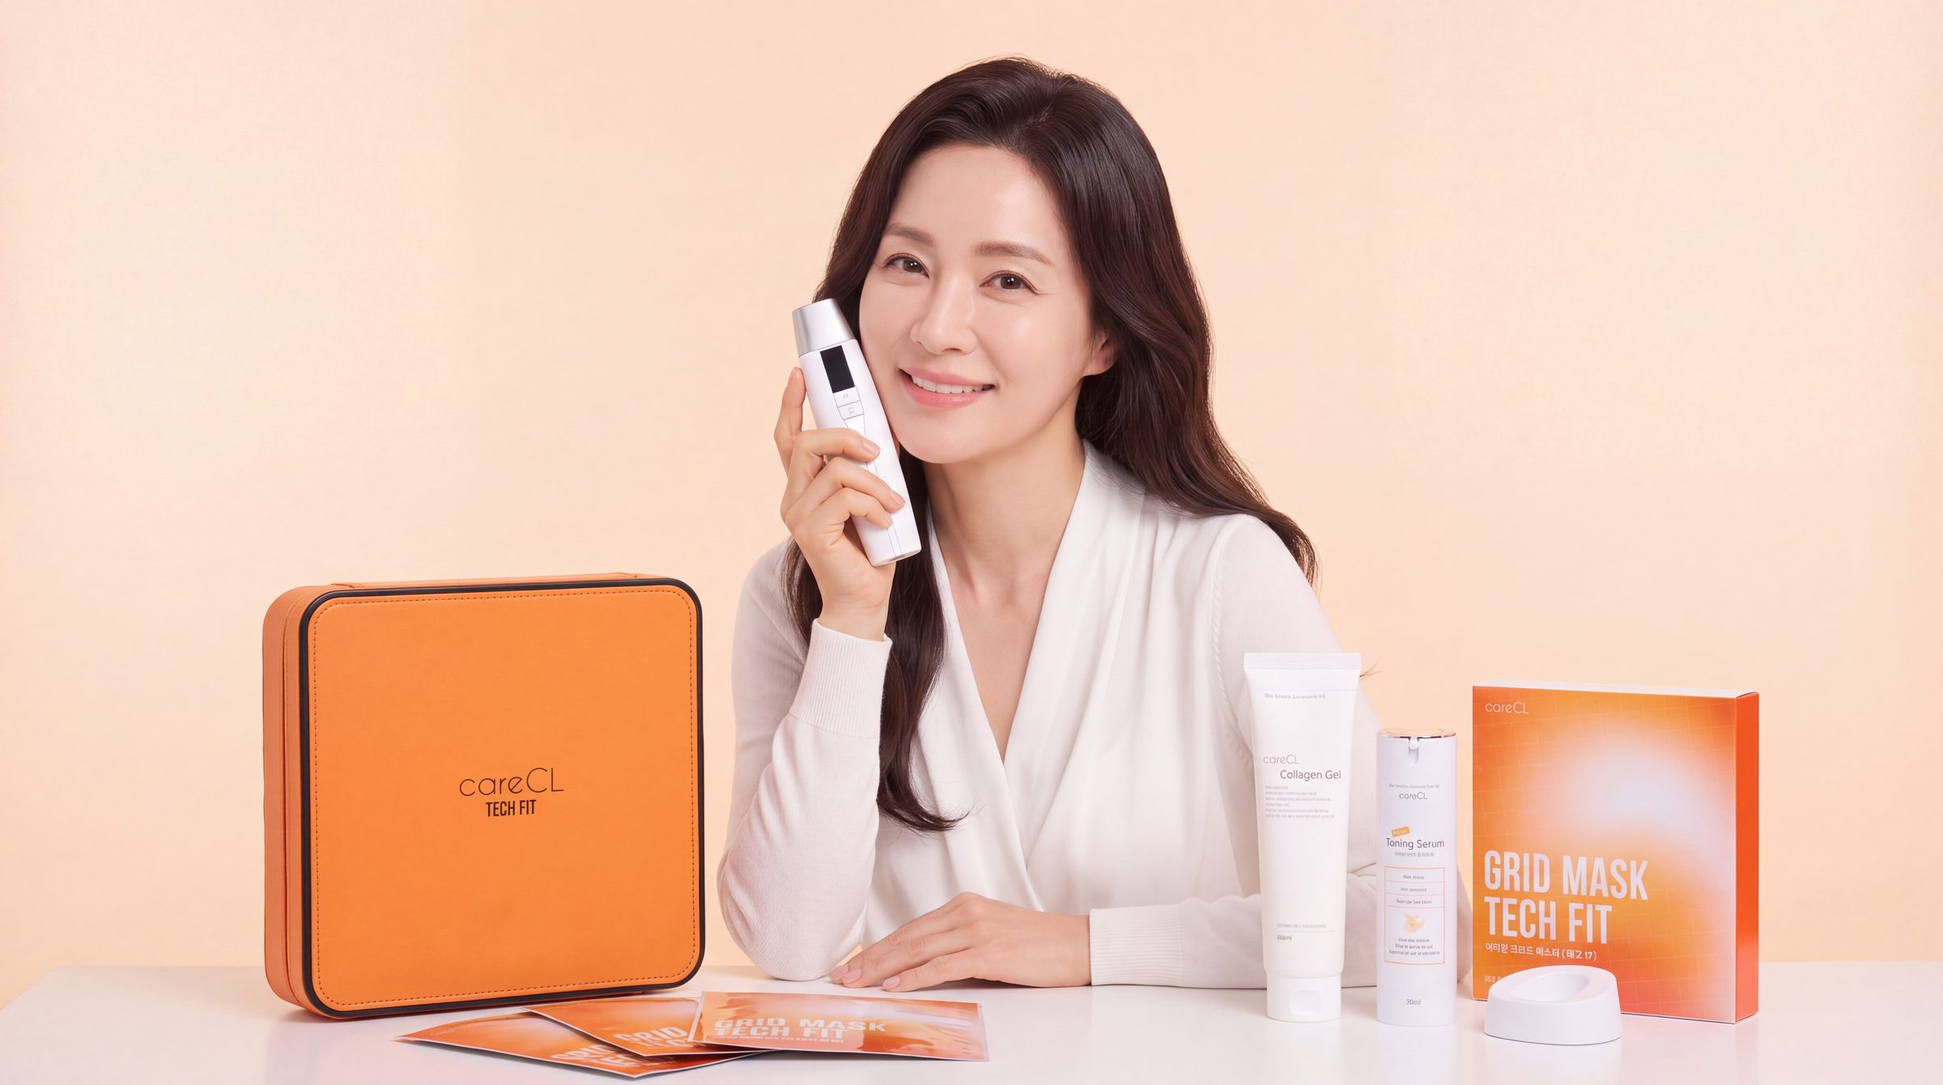
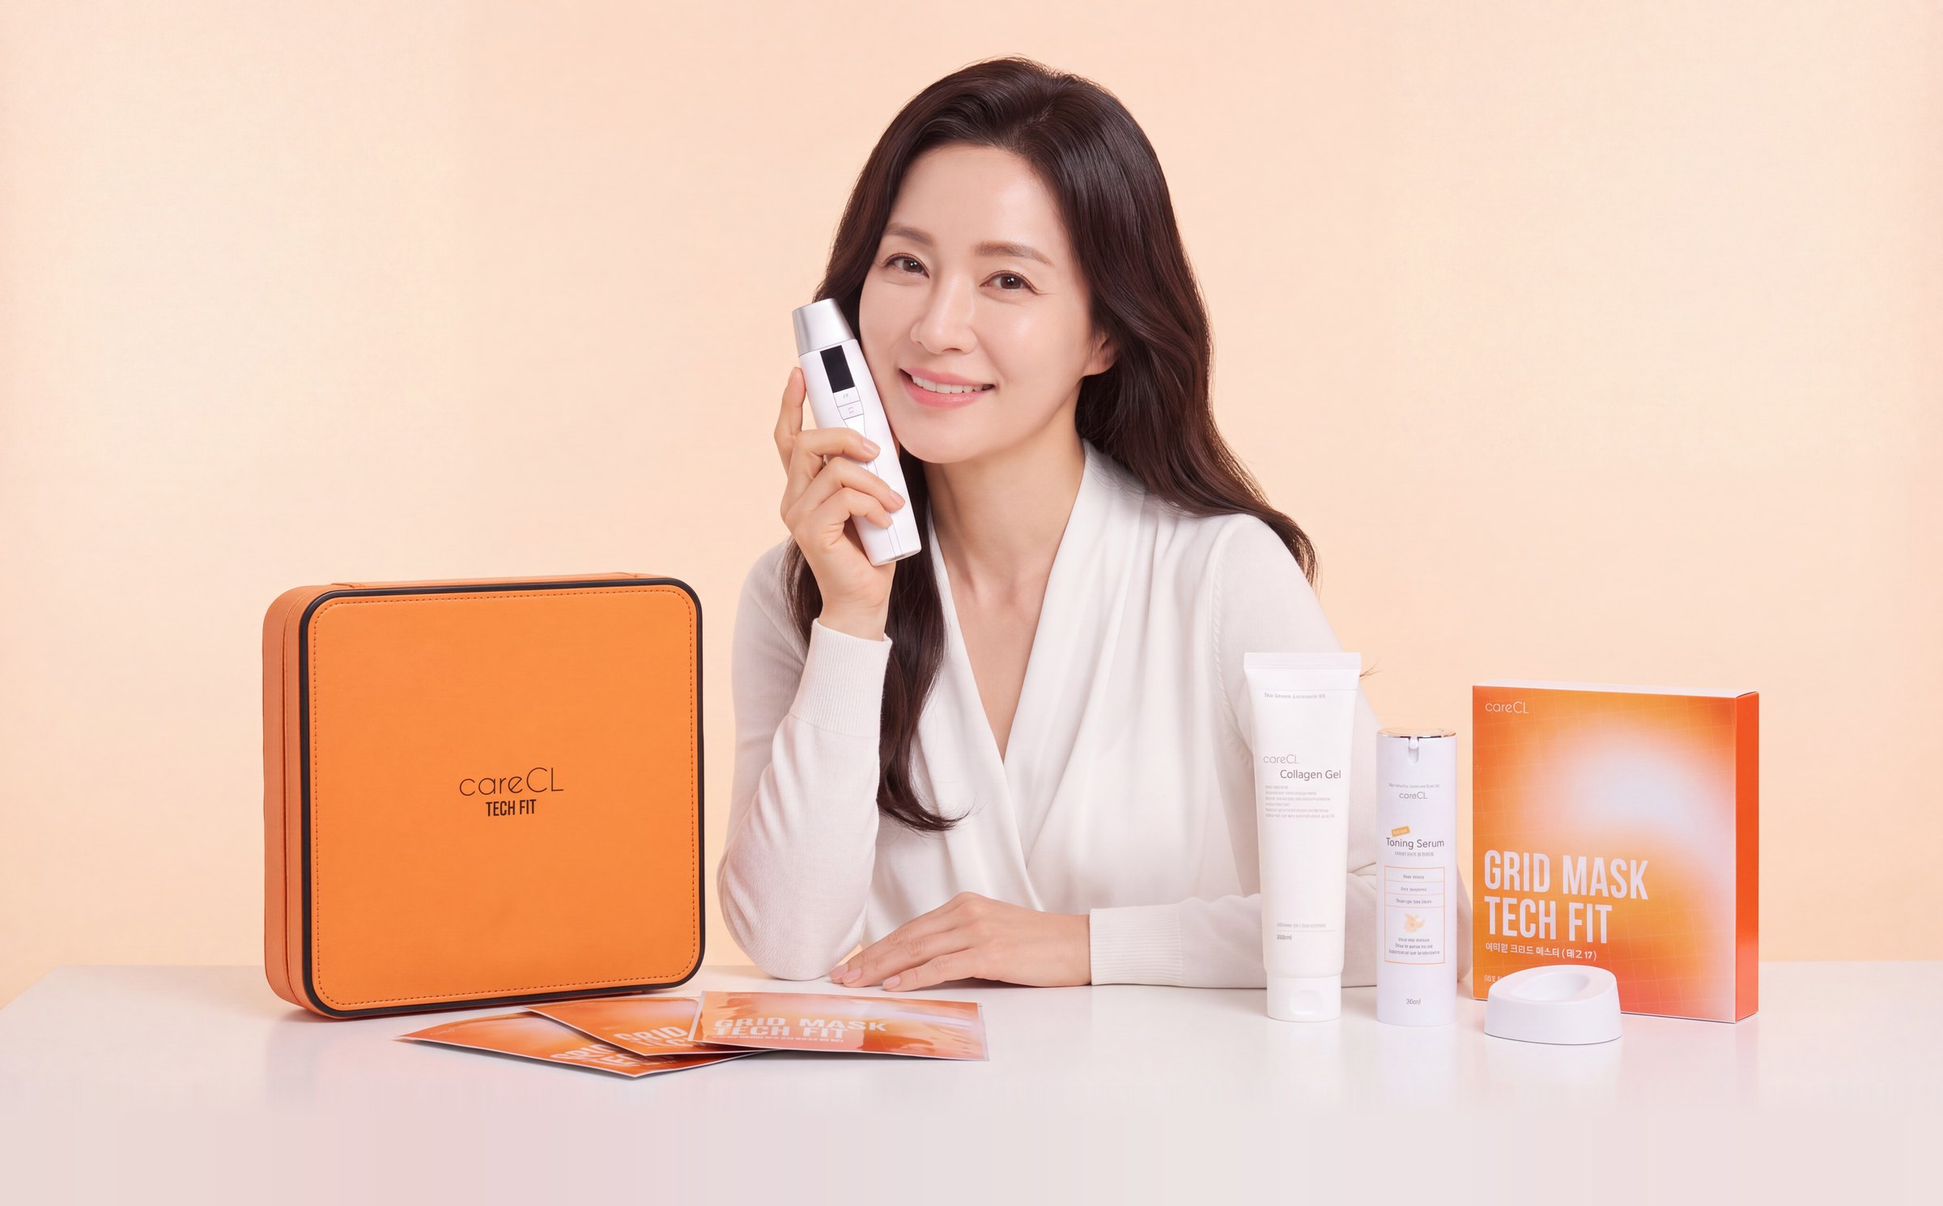
공식몰 사진 하단 확장·전체 노출, AI 피부 진단 플로팅 버튼 복원

diff --git a/index.html b/index.html
@@ -9,7 +9,7 @@
 <link rel="preload" href="fonts/metropolis-latin-500-normal.woff2" as="font" type="font/woff2" crossorigin>
 <link rel="preload" href="fonts/urbanist-latin-400-normal.woff2" as="font" type="font/woff2" crossorigin>
 <link rel="stylesheet" href="https://cdn.jsdelivr.net/gh/orioncactus/pretendard@v1.3.9/dist/web/static/pretendard.min.css">
-<link rel="stylesheet" href="css/stem.css?v=261016040611">
+<link rel="stylesheet" href="css/stem.css?v=261016040916">
 <script type="importmap">{"imports":{"three":"./libs/three/three.module.min.js"}}</script>
 </head>
 <body>
@@ -43,8 +43,8 @@
 
   <!-- 01 상단 배너 -->
   <section class="hero" aria-label="메인 영상">
-    <img class="hero__poster" src="assets/img/main-film-poster.jpg?v=261016040611" alt="">
-    <video class="hero__video" src="assets/video/main-film.mp4?v=261016040611" poster="assets/img/main-film-poster.jpg?v=261016040611"
+    <img class="hero__poster" src="assets/img/main-film-poster.jpg?v=261016040916" alt="">
+    <video class="hero__video" src="assets/video/main-film.mp4?v=261016040916" poster="assets/img/main-film-poster.jpg?v=261016040916"
            autoplay muted loop playsinline preload="metadata" aria-hidden="true"></video>
     <div class="hero__copy">
       <p class="hero__eyebrow">Anti-Aging Skincare</p>
@@ -335,8 +335,9 @@
     <span>© 2026 CARECL. All rights reserved.</span>
   </div>
 </footer>
-<script src="js/led.js?v=261016040611"></script>
-<script src="js/stem.js?v=261016040611"></script>
-<script type="module" src="js/device3d.js?v=261016040611"></script>
+<a class="aifab" href="survey.html" aria-label="AI 피부 진단 시작하기"><span class="aifab__ico"><svg viewBox="0 0 24 24" fill="none" aria-hidden="true"><path d="M12 2.2 14 8.4 20.2 10.4 14 12.4 12 18.6 10 12.4 3.8 10.4 10 8.4Z" fill="currentColor"/><circle cx="19.4" cy="4.2" r="1.7" fill="currentColor" opacity=".9"/><circle cx="4.8" cy="18.4" r="1.2" fill="currentColor" opacity=".7"/></svg></span><span class="aifab__txt">AI 피부 진단</span></a>
+<script src="js/led.js?v=261016040916"></script>
+<script src="js/stem.js?v=261016040916"></script>
+<script type="module" src="js/device3d.js?v=261016040916"></script>
 </body>
 </html>

diff --git a/css/stem.css b/css/stem.css
@@ -418,7 +418,7 @@ body.menu-open .mnav{opacity:1;visibility:visible;transform:none;transition-dela
   /* 좁은 화면 — 글을 위에, 사진은 아래에 통째로 */
   .shop{height:auto!important;flex-direction:column}
   .shop__inner{padding-block:40px 28px}
-  .shop__bg{position:relative;inset:auto;width:100%;aspect-ratio:16/9}
+  .shop__bg{position:relative;inset:auto;width:100%;aspect-ratio:2400/1490}
   .shop__bg img{transform:none!important;object-position:50% 50%}
   .foot__top{grid-template-columns:1fr}
 }
@@ -431,3 +431,26 @@ body.menu-open .mnav{opacity:1;visibility:visible;transform:none;transition-dela
   .js .rv{opacity:1;transform:none}
   .marq__track{animation:none}
 }
+
+/* ── AI 피부 진단 플로팅 버튼 (예전 사이트와 같은 모양) ── */
+.aifab{
+  position:fixed;right:clamp(18px,2.4vw,38px);bottom:clamp(18px,2.4vw,38px);z-index:95;
+  display:inline-flex;align-items:center;gap:10px;
+  padding:14px 22px 14px 14px;border-radius:100px;
+  background:#C46A3A;color:#fff;text-decoration:none;
+  box-shadow:0 8px 18px -8px rgba(196,106,58,.55);
+  transition:transform .35s cubic-bezier(.2,.7,.2,1), box-shadow .35s ease, background .3s ease;
+  animation:aifabFloat 4.5s ease-in-out infinite;
+}
+.aifab:hover{transform:translateY(-3px);background:#A8521F;box-shadow:0 12px 22px -10px rgba(168,82,31,.6)}
+.aifab__ico{display:inline-flex;align-items:center;justify-content:center;width:34px;height:34px;border-radius:50%;background:rgba(255,255,255,.26);color:#fff}
+.aifab__ico svg{width:18px;height:18px;animation:aiSpin 7s linear infinite}
+.aifab__txt{font-size:15px;font-weight:600;letter-spacing:-.01em;white-space:nowrap}
+@keyframes aifabFloat{0%,100%{transform:translateY(0)}50%{transform:translateY(-5px)}}
+@keyframes aiSpin{to{transform:rotate(360deg)}}
+@media (max-width:620px){
+  .aifab{padding:12px 18px 12px 12px}
+  .aifab__ico{width:30px;height:30px}
+  .aifab__txt{font-size:14px}
+}
+@media (prefers-reduced-motion:reduce){.aifab,.aifab__ico svg{animation:none}}

diff --git a/survey.html b/survey.html
@@ -9,10 +9,10 @@
 <link rel="preload" href="fonts/metropolis-latin-500-normal.woff2" as="font" type="font/woff2" crossorigin>
 <link rel="preload" href="fonts/urbanist-latin-400-normal.woff2" as="font" type="font/woff2" crossorigin>
 <link rel="stylesheet" href="https://cdn.jsdelivr.net/gh/orioncactus/pretendard@v1.3.9/dist/web/static/pretendard.min.css">
-<link rel="stylesheet" href="css/stem.css?v=261016040611">
-<link rel="stylesheet" href="css/bridge.css?v=261016040611">
-<link rel="stylesheet" href="css/survey.css?v=261016040611">
-<link rel="stylesheet" href="css/report.css?v=261016040611">
+<link rel="stylesheet" href="css/stem.css?v=261016040916">
+<link rel="stylesheet" href="css/bridge.css?v=261016040916">
+<link rel="stylesheet" href="css/survey.css?v=261016040916">
+<link rel="stylesheet" href="css/report.css?v=261016040916">
 <script type="importmap">{"imports":{"three":"./libs/three/three.module.min.js"}}</script>
 </head>
 <body class="survey">
@@ -72,9 +72,10 @@
     <span>© 2026 CARECL. All rights reserved.</span>
   </div>
 </footer>
-<script src="js/led.js?v=261016040611"></script>
-<script src="js/stem.js?v=261016040611"></script>
-<script src="js/report.js?v=261016040611"></script>
-<script src="js/survey.js?v=261016040611"></script>
+<a class="aifab" href="survey.html" aria-label="AI 피부 진단 시작하기"><span class="aifab__ico"><svg viewBox="0 0 24 24" fill="none" aria-hidden="true"><path d="M12 2.2 14 8.4 20.2 10.4 14 12.4 12 18.6 10 12.4 3.8 10.4 10 8.4Z" fill="currentColor"/><circle cx="19.4" cy="4.2" r="1.7" fill="currentColor" opacity=".9"/><circle cx="4.8" cy="18.4" r="1.2" fill="currentColor" opacity=".7"/></svg></span><span class="aifab__txt">AI 피부 진단</span></a>
+<script src="js/led.js?v=261016040916"></script>
+<script src="js/stem.js?v=261016040916"></script>
+<script src="js/report.js?v=261016040916"></script>
+<script src="js/survey.js?v=261016040916"></script>
 </body>
 </html>

diff --git a/report.html b/report.html
@@ -9,10 +9,10 @@
 <link rel="preload" href="fonts/metropolis-latin-500-normal.woff2" as="font" type="font/woff2" crossorigin>
 <link rel="preload" href="fonts/urbanist-latin-400-normal.woff2" as="font" type="font/woff2" crossorigin>
 <link rel="stylesheet" href="https://cdn.jsdelivr.net/gh/orioncactus/pretendard@v1.3.9/dist/web/static/pretendard.min.css">
-<link rel="stylesheet" href="css/stem.css?v=261016040611">
-<link rel="stylesheet" href="css/sub.css?v=261016040611">
-<link rel="stylesheet" href="css/bridge.css?v=261016040611">
-<link rel="stylesheet" href="css/report.css?v=261016040611">
+<link rel="stylesheet" href="css/stem.css?v=261016040916">
+<link rel="stylesheet" href="css/sub.css?v=261016040916">
+<link rel="stylesheet" href="css/bridge.css?v=261016040916">
+<link rel="stylesheet" href="css/report.css?v=261016040916">
 <script type="importmap">{"imports":{"three":"./libs/three/three.module.min.js"}}</script>
 </head>
 <body>
@@ -70,9 +70,10 @@
     <span>© 2026 CARECL. All rights reserved.</span>
   </div>
 </footer>
-<script src="js/led.js?v=261016040611"></script>
-<script src="js/stem.js?v=261016040611"></script>
-<script src="js/report.js?v=261016040611"></script>
-<script src="js/reportpage.js?v=261016040611"></script>
+<a class="aifab" href="survey.html" aria-label="AI 피부 진단 시작하기"><span class="aifab__ico"><svg viewBox="0 0 24 24" fill="none" aria-hidden="true"><path d="M12 2.2 14 8.4 20.2 10.4 14 12.4 12 18.6 10 12.4 3.8 10.4 10 8.4Z" fill="currentColor"/><circle cx="19.4" cy="4.2" r="1.7" fill="currentColor" opacity=".9"/><circle cx="4.8" cy="18.4" r="1.2" fill="currentColor" opacity=".7"/></svg></span><span class="aifab__txt">AI 피부 진단</span></a>
+<script src="js/led.js?v=261016040916"></script>
+<script src="js/stem.js?v=261016040916"></script>
+<script src="js/report.js?v=261016040916"></script>
+<script src="js/reportpage.js?v=261016040916"></script>
 </body>
 </html>

diff --git a/aging-map.html b/aging-map.html
@@ -9,8 +9,8 @@
 <link rel="preload" href="fonts/metropolis-latin-500-normal.woff2" as="font" type="font/woff2" crossorigin>
 <link rel="preload" href="fonts/urbanist-latin-400-normal.woff2" as="font" type="font/woff2" crossorigin>
 <link rel="stylesheet" href="https://cdn.jsdelivr.net/gh/orioncactus/pretendard@v1.3.9/dist/web/static/pretendard.min.css">
-<link rel="stylesheet" href="css/stem.css?v=261016040611">
-<link rel="stylesheet" href="css/sub.css?v=261016040611">
+<link rel="stylesheet" href="css/stem.css?v=261016040916">
+<link rel="stylesheet" href="css/sub.css?v=261016040916">
 <script type="importmap">{"imports":{"three":"./libs/three/three.module.min.js"}}</script>
 </head>
 <body>
@@ -100,7 +100,8 @@
     <span>© 2026 CARECL. All rights reserved.</span>
   </div>
 </footer>
-<script src="js/led.js?v=261016040611"></script>
-<script src="js/stem.js?v=261016040611"></script>
+<a class="aifab" href="survey.html" aria-label="AI 피부 진단 시작하기"><span class="aifab__ico"><svg viewBox="0 0 24 24" fill="none" aria-hidden="true"><path d="M12 2.2 14 8.4 20.2 10.4 14 12.4 12 18.6 10 12.4 3.8 10.4 10 8.4Z" fill="currentColor"/><circle cx="19.4" cy="4.2" r="1.7" fill="currentColor" opacity=".9"/><circle cx="4.8" cy="18.4" r="1.2" fill="currentColor" opacity=".7"/></svg></span><span class="aifab__txt">AI 피부 진단</span></a>
+<script src="js/led.js?v=261016040916"></script>
+<script src="js/stem.js?v=261016040916"></script>
 </body>
 </html>

diff --git a/aging-types.html b/aging-types.html
@@ -9,8 +9,8 @@
 <link rel="preload" href="fonts/metropolis-latin-500-normal.woff2" as="font" type="font/woff2" crossorigin>
 <link rel="preload" href="fonts/urbanist-latin-400-normal.woff2" as="font" type="font/woff2" crossorigin>
 <link rel="stylesheet" href="https://cdn.jsdelivr.net/gh/orioncactus/pretendard@v1.3.9/dist/web/static/pretendard.min.css">
-<link rel="stylesheet" href="css/stem.css?v=261016040611">
-<link rel="stylesheet" href="css/sub.css?v=261016040611">
+<link rel="stylesheet" href="css/stem.css?v=261016040916">
+<link rel="stylesheet" href="css/sub.css?v=261016040916">
 <script type="importmap">{"imports":{"three":"./libs/three/three.module.min.js"}}</script>
 </head>
 <body>
@@ -120,7 +120,8 @@
     <span>© 2026 CARECL. All rights reserved.</span>
   </div>
 </footer>
-<script src="js/led.js?v=261016040611"></script>
-<script src="js/stem.js?v=261016040611"></script>
+<a class="aifab" href="survey.html" aria-label="AI 피부 진단 시작하기"><span class="aifab__ico"><svg viewBox="0 0 24 24" fill="none" aria-hidden="true"><path d="M12 2.2 14 8.4 20.2 10.4 14 12.4 12 18.6 10 12.4 3.8 10.4 10 8.4Z" fill="currentColor"/><circle cx="19.4" cy="4.2" r="1.7" fill="currentColor" opacity=".9"/><circle cx="4.8" cy="18.4" r="1.2" fill="currentColor" opacity=".7"/></svg></span><span class="aifab__txt">AI 피부 진단</span></a>
+<script src="js/led.js?v=261016040916"></script>
+<script src="js/stem.js?v=261016040916"></script>
 </body>
 </html>

diff --git a/carecl-technology.html b/carecl-technology.html
@@ -9,8 +9,8 @@
 <link rel="preload" href="fonts/metropolis-latin-500-normal.woff2" as="font" type="font/woff2" crossorigin>
 <link rel="preload" href="fonts/urbanist-latin-400-normal.woff2" as="font" type="font/woff2" crossorigin>
 <link rel="stylesheet" href="https://cdn.jsdelivr.net/gh/orioncactus/pretendard@v1.3.9/dist/web/static/pretendard.min.css">
-<link rel="stylesheet" href="css/stem.css?v=261016040611">
-<link rel="stylesheet" href="css/sub.css?v=261016040611">
+<link rel="stylesheet" href="css/stem.css?v=261016040916">
+<link rel="stylesheet" href="css/sub.css?v=261016040916">
 <script type="importmap">{"imports":{"three":"./libs/three/three.module.min.js"}}</script>
 </head>
 <body>
@@ -145,7 +145,8 @@
     <span>© 2026 CARECL. All rights reserved.</span>
   </div>
 </footer>
-<script src="js/led.js?v=261016040611"></script>
-<script src="js/stem.js?v=261016040611"></script>
+<a class="aifab" href="survey.html" aria-label="AI 피부 진단 시작하기"><span class="aifab__ico"><svg viewBox="0 0 24 24" fill="none" aria-hidden="true"><path d="M12 2.2 14 8.4 20.2 10.4 14 12.4 12 18.6 10 12.4 3.8 10.4 10 8.4Z" fill="currentColor"/><circle cx="19.4" cy="4.2" r="1.7" fill="currentColor" opacity=".9"/><circle cx="4.8" cy="18.4" r="1.2" fill="currentColor" opacity=".7"/></svg></span><span class="aifab__txt">AI 피부 진단</span></a>
+<script src="js/led.js?v=261016040916"></script>
+<script src="js/stem.js?v=261016040916"></script>
 </body>
 </html>

diff --git a/greeting.html b/greeting.html
@@ -9,8 +9,8 @@
 <link rel="preload" href="fonts/metropolis-latin-500-normal.woff2" as="font" type="font/woff2" crossorigin>
 <link rel="preload" href="fonts/urbanist-latin-400-normal.woff2" as="font" type="font/woff2" crossorigin>
 <link rel="stylesheet" href="https://cdn.jsdelivr.net/gh/orioncactus/pretendard@v1.3.9/dist/web/static/pretendard.min.css">
-<link rel="stylesheet" href="css/stem.css?v=261016040611">
-<link rel="stylesheet" href="css/sub.css?v=261016040611">
+<link rel="stylesheet" href="css/stem.css?v=261016040916">
+<link rel="stylesheet" href="css/sub.css?v=261016040916">
 <script type="importmap">{"imports":{"three":"./libs/three/three.module.min.js"}}</script>
 </head>
 <body>
@@ -112,7 +112,8 @@
     <span>© 2026 CARECL. All rights reserved.</span>
   </div>
 </footer>
-<script src="js/led.js?v=261016040611"></script>
-<script src="js/stem.js?v=261016040611"></script>
+<a class="aifab" href="survey.html" aria-label="AI 피부 진단 시작하기"><span class="aifab__ico"><svg viewBox="0 0 24 24" fill="none" aria-hidden="true"><path d="M12 2.2 14 8.4 20.2 10.4 14 12.4 12 18.6 10 12.4 3.8 10.4 10 8.4Z" fill="currentColor"/><circle cx="19.4" cy="4.2" r="1.7" fill="currentColor" opacity=".9"/><circle cx="4.8" cy="18.4" r="1.2" fill="currentColor" opacity=".7"/></svg></span><span class="aifab__txt">AI 피부 진단</span></a>
+<script src="js/led.js?v=261016040916"></script>
+<script src="js/stem.js?v=261016040916"></script>
 </body>
 </html>

diff --git a/about.html b/about.html
@@ -9,8 +9,8 @@
 <link rel="preload" href="fonts/metropolis-latin-500-normal.woff2" as="font" type="font/woff2" crossorigin>
 <link rel="preload" href="fonts/urbanist-latin-400-normal.woff2" as="font" type="font/woff2" crossorigin>
 <link rel="stylesheet" href="https://cdn.jsdelivr.net/gh/orioncactus/pretendard@v1.3.9/dist/web/static/pretendard.min.css">
-<link rel="stylesheet" href="css/stem.css?v=261016040611">
-<link rel="stylesheet" href="css/sub.css?v=261016040611">
+<link rel="stylesheet" href="css/stem.css?v=261016040916">
+<link rel="stylesheet" href="css/sub.css?v=261016040916">
 <script type="importmap">{"imports":{"three":"./libs/three/three.module.min.js"}}</script>
 </head>
 <body>
@@ -92,7 +92,8 @@
     <span>© 2026 CARECL. All rights reserved.</span>
   </div>
 </footer>
-<script src="js/led.js?v=261016040611"></script>
-<script src="js/stem.js?v=261016040611"></script>
+<a class="aifab" href="survey.html" aria-label="AI 피부 진단 시작하기"><span class="aifab__ico"><svg viewBox="0 0 24 24" fill="none" aria-hidden="true"><path d="M12 2.2 14 8.4 20.2 10.4 14 12.4 12 18.6 10 12.4 3.8 10.4 10 8.4Z" fill="currentColor"/><circle cx="19.4" cy="4.2" r="1.7" fill="currentColor" opacity=".9"/><circle cx="4.8" cy="18.4" r="1.2" fill="currentColor" opacity=".7"/></svg></span><span class="aifab__txt">AI 피부 진단</span></a>
+<script src="js/led.js?v=261016040916"></script>
+<script src="js/stem.js?v=261016040916"></script>
 </body>
 </html>

diff --git a/certification.html b/certification.html
@@ -9,8 +9,8 @@
 <link rel="preload" href="fonts/metropolis-latin-500-normal.woff2" as="font" type="font/woff2" crossorigin>
 <link rel="preload" href="fonts/urbanist-latin-400-normal.woff2" as="font" type="font/woff2" crossorigin>
 <link rel="stylesheet" href="https://cdn.jsdelivr.net/gh/orioncactus/pretendard@v1.3.9/dist/web/static/pretendard.min.css">
-<link rel="stylesheet" href="css/stem.css?v=261016040611">
-<link rel="stylesheet" href="css/sub.css?v=261016040611">
+<link rel="stylesheet" href="css/stem.css?v=261016040916">
+<link rel="stylesheet" href="css/sub.css?v=261016040916">
 <script type="importmap">{"imports":{"three":"./libs/three/three.module.min.js"}}</script>
 </head>
 <body>
@@ -79,7 +79,8 @@
     <span>© 2026 CARECL. All rights reserved.</span>
   </div>
 </footer>
-<script src="js/led.js?v=261016040611"></script>
-<script src="js/stem.js?v=261016040611"></script>
+<a class="aifab" href="survey.html" aria-label="AI 피부 진단 시작하기"><span class="aifab__ico"><svg viewBox="0 0 24 24" fill="none" aria-hidden="true"><path d="M12 2.2 14 8.4 20.2 10.4 14 12.4 12 18.6 10 12.4 3.8 10.4 10 8.4Z" fill="currentColor"/><circle cx="19.4" cy="4.2" r="1.7" fill="currentColor" opacity=".9"/><circle cx="4.8" cy="18.4" r="1.2" fill="currentColor" opacity=".7"/></svg></span><span class="aifab__txt">AI 피부 진단</span></a>
+<script src="js/led.js?v=261016040916"></script>
+<script src="js/stem.js?v=261016040916"></script>
 </body>
 </html>

diff --git a/contact.html b/contact.html
@@ -9,8 +9,8 @@
 <link rel="preload" href="fonts/metropolis-latin-500-normal.woff2" as="font" type="font/woff2" crossorigin>
 <link rel="preload" href="fonts/urbanist-latin-400-normal.woff2" as="font" type="font/woff2" crossorigin>
 <link rel="stylesheet" href="https://cdn.jsdelivr.net/gh/orioncactus/pretendard@v1.3.9/dist/web/static/pretendard.min.css">
-<link rel="stylesheet" href="css/stem.css?v=261016040611">
-<link rel="stylesheet" href="css/sub.css?v=261016040611">
+<link rel="stylesheet" href="css/stem.css?v=261016040916">
+<link rel="stylesheet" href="css/sub.css?v=261016040916">
 <script type="importmap">{"imports":{"three":"./libs/three/three.module.min.js"}}</script>
 </head>
 <body>
@@ -92,7 +92,8 @@
     <span>© 2026 CARECL. All rights reserved.</span>
   </div>
 </footer>
-<script src="js/led.js?v=261016040611"></script>
-<script src="js/stem.js?v=261016040611"></script>
+<a class="aifab" href="survey.html" aria-label="AI 피부 진단 시작하기"><span class="aifab__ico"><svg viewBox="0 0 24 24" fill="none" aria-hidden="true"><path d="M12 2.2 14 8.4 20.2 10.4 14 12.4 12 18.6 10 12.4 3.8 10.4 10 8.4Z" fill="currentColor"/><circle cx="19.4" cy="4.2" r="1.7" fill="currentColor" opacity=".9"/><circle cx="4.8" cy="18.4" r="1.2" fill="currentColor" opacity=".7"/></svg></span><span class="aifab__txt">AI 피부 진단</span></a>
+<script src="js/led.js?v=261016040916"></script>
+<script src="js/stem.js?v=261016040916"></script>
 </body>
 </html>

diff --git a/cosmetics.html b/cosmetics.html
@@ -9,8 +9,8 @@
 <link rel="preload" href="fonts/metropolis-latin-500-normal.woff2" as="font" type="font/woff2" crossorigin>
 <link rel="preload" href="fonts/urbanist-latin-400-normal.woff2" as="font" type="font/woff2" crossorigin>
 <link rel="stylesheet" href="https://cdn.jsdelivr.net/gh/orioncactus/pretendard@v1.3.9/dist/web/static/pretendard.min.css">
-<link rel="stylesheet" href="css/stem.css?v=261016040611">
-<link rel="stylesheet" href="css/sub.css?v=261016040611">
+<link rel="stylesheet" href="css/stem.css?v=261016040916">
+<link rel="stylesheet" href="css/sub.css?v=261016040916">
 <script type="importmap">{"imports":{"three":"./libs/three/three.module.min.js"}}</script>
 </head>
 <body>
@@ -92,7 +92,8 @@
     <span>© 2026 CARECL. All rights reserved.</span>
   </div>
 </footer>
-<script src="js/led.js?v=261016040611"></script>
-<script src="js/stem.js?v=261016040611"></script>
+<a class="aifab" href="survey.html" aria-label="AI 피부 진단 시작하기"><span class="aifab__ico"><svg viewBox="0 0 24 24" fill="none" aria-hidden="true"><path d="M12 2.2 14 8.4 20.2 10.4 14 12.4 12 18.6 10 12.4 3.8 10.4 10 8.4Z" fill="currentColor"/><circle cx="19.4" cy="4.2" r="1.7" fill="currentColor" opacity=".9"/><circle cx="4.8" cy="18.4" r="1.2" fill="currentColor" opacity=".7"/></svg></span><span class="aifab__txt">AI 피부 진단</span></a>
+<script src="js/led.js?v=261016040916"></script>
+<script src="js/stem.js?v=261016040916"></script>
 </body>
 </html>
